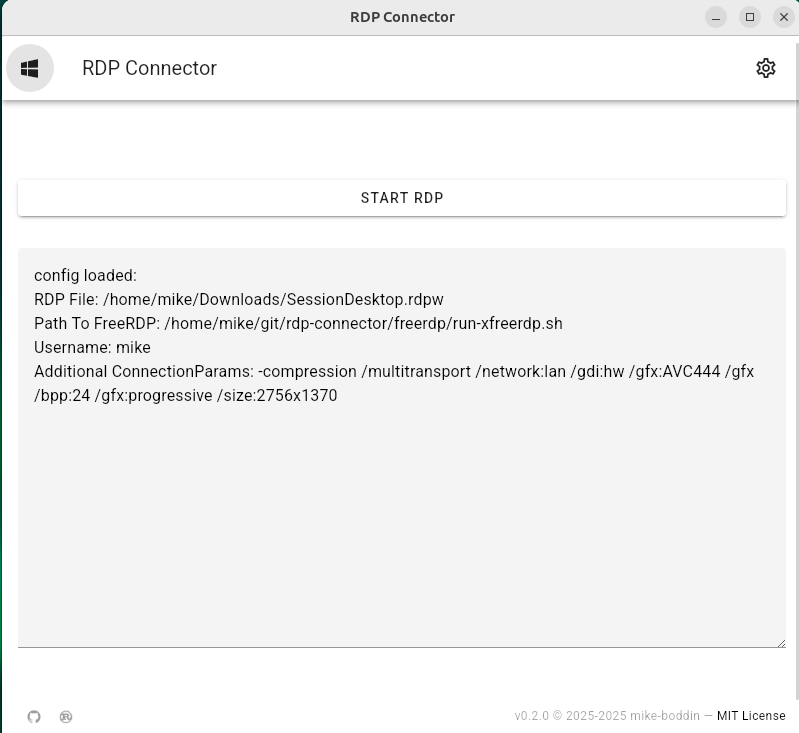
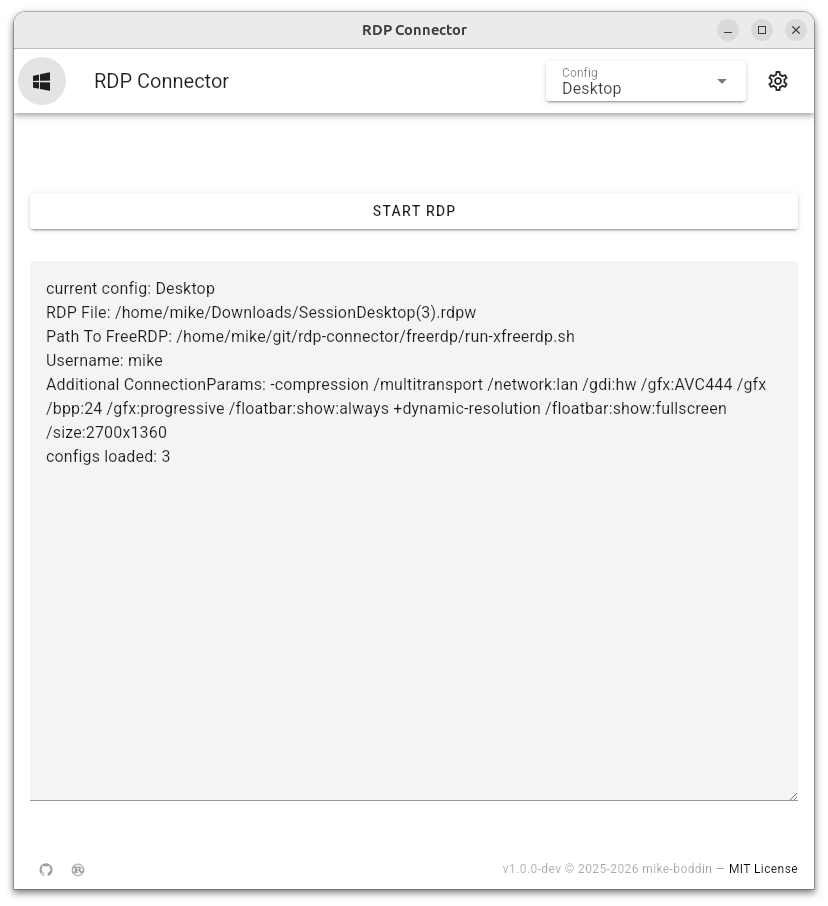
docs: Update README.md

Changed region(s): [[0.0, 0.0, 1.0, 0.9905], [0.4506, 0.2101, 0.5707, 0.3001]]

diff --git a/README.md b/README.md
@@ -23,18 +23,24 @@ You can download the RDP configuration file here: [client.wvd.microsoft](https:/
 ## Download ready-to-use binaries
 
 You don't want to build RDP-Connector on your own? You can download recent versions from the [Releases Page](https://github.com/mike-boddin/rdp-connector/releases).  
-Vou can try the latest freerdp binaries from [freerdp.com/releases](https://pub.freerdp.com/releases/).
+You can try the latest freerdp binaries from [freerdp.com/releases](https://pub.freerdp.com/releases/).
 
 ## Usage
 
-* start the app
-* go to settings and set the config-values
-* (you can use the wrapper-script from the freerdp binaries in the [Releases Page](https://github.com/mike-boddin/rdp-connector/releases) as "Path to freerdp")  
+* Start the app.
+* Go to the **Settings** tab to manage your RDP configurations:
+  * You can now save and manage **multiple RDP configurations**.
+  * Use the **Settings Chooser** (the dropdown at the top of the settings page) to switch between different profiles.
+  * You can **Add**, **Clone**, or **Delete** configurations as needed.
+  * Use the **Copy button** to easily duplicate connection parameters between profiles.
+  * (Optional: You can use the wrapper-script from the freerdp binaries in the [Releases Page](https://github.com/mike-boddin/rdp-connector/releases) as "Path to freerdp").
 
   ![settings screen](assets/settings-screen.png)
 
-* go to the main page and press "Start RDP"  
-  
+* Go to the **Main** page and press **"Start RDP"** to initiate the connection:
+  * Use the dropdown menu to select your saved configuration.
+  * If a connection is already active, use the **"Jump to RDP"** button to quickly focus the FreeRDP window.
+
   ![main screen](assets/main-screen.png)
 
 ## Build and install from Source
@@ -47,7 +53,7 @@ npm run tauri:build
 ```
 
 After this, you get a ready-to-use binary under `src-tauri/target/release/rdp-connector`.  
-Also, you get a deb-package for installing on Linux: `src-tauri/target/release/bundle/deb/rdp-connector_0.1.0_amd64.deb`
+Also, you get a deb-package for installing on Linux: `src-tauri/target/release/bundle/deb/rdp-connector_1.0.0_amd64.deb`
 
 ### (Optional) Build your own freerdp
 